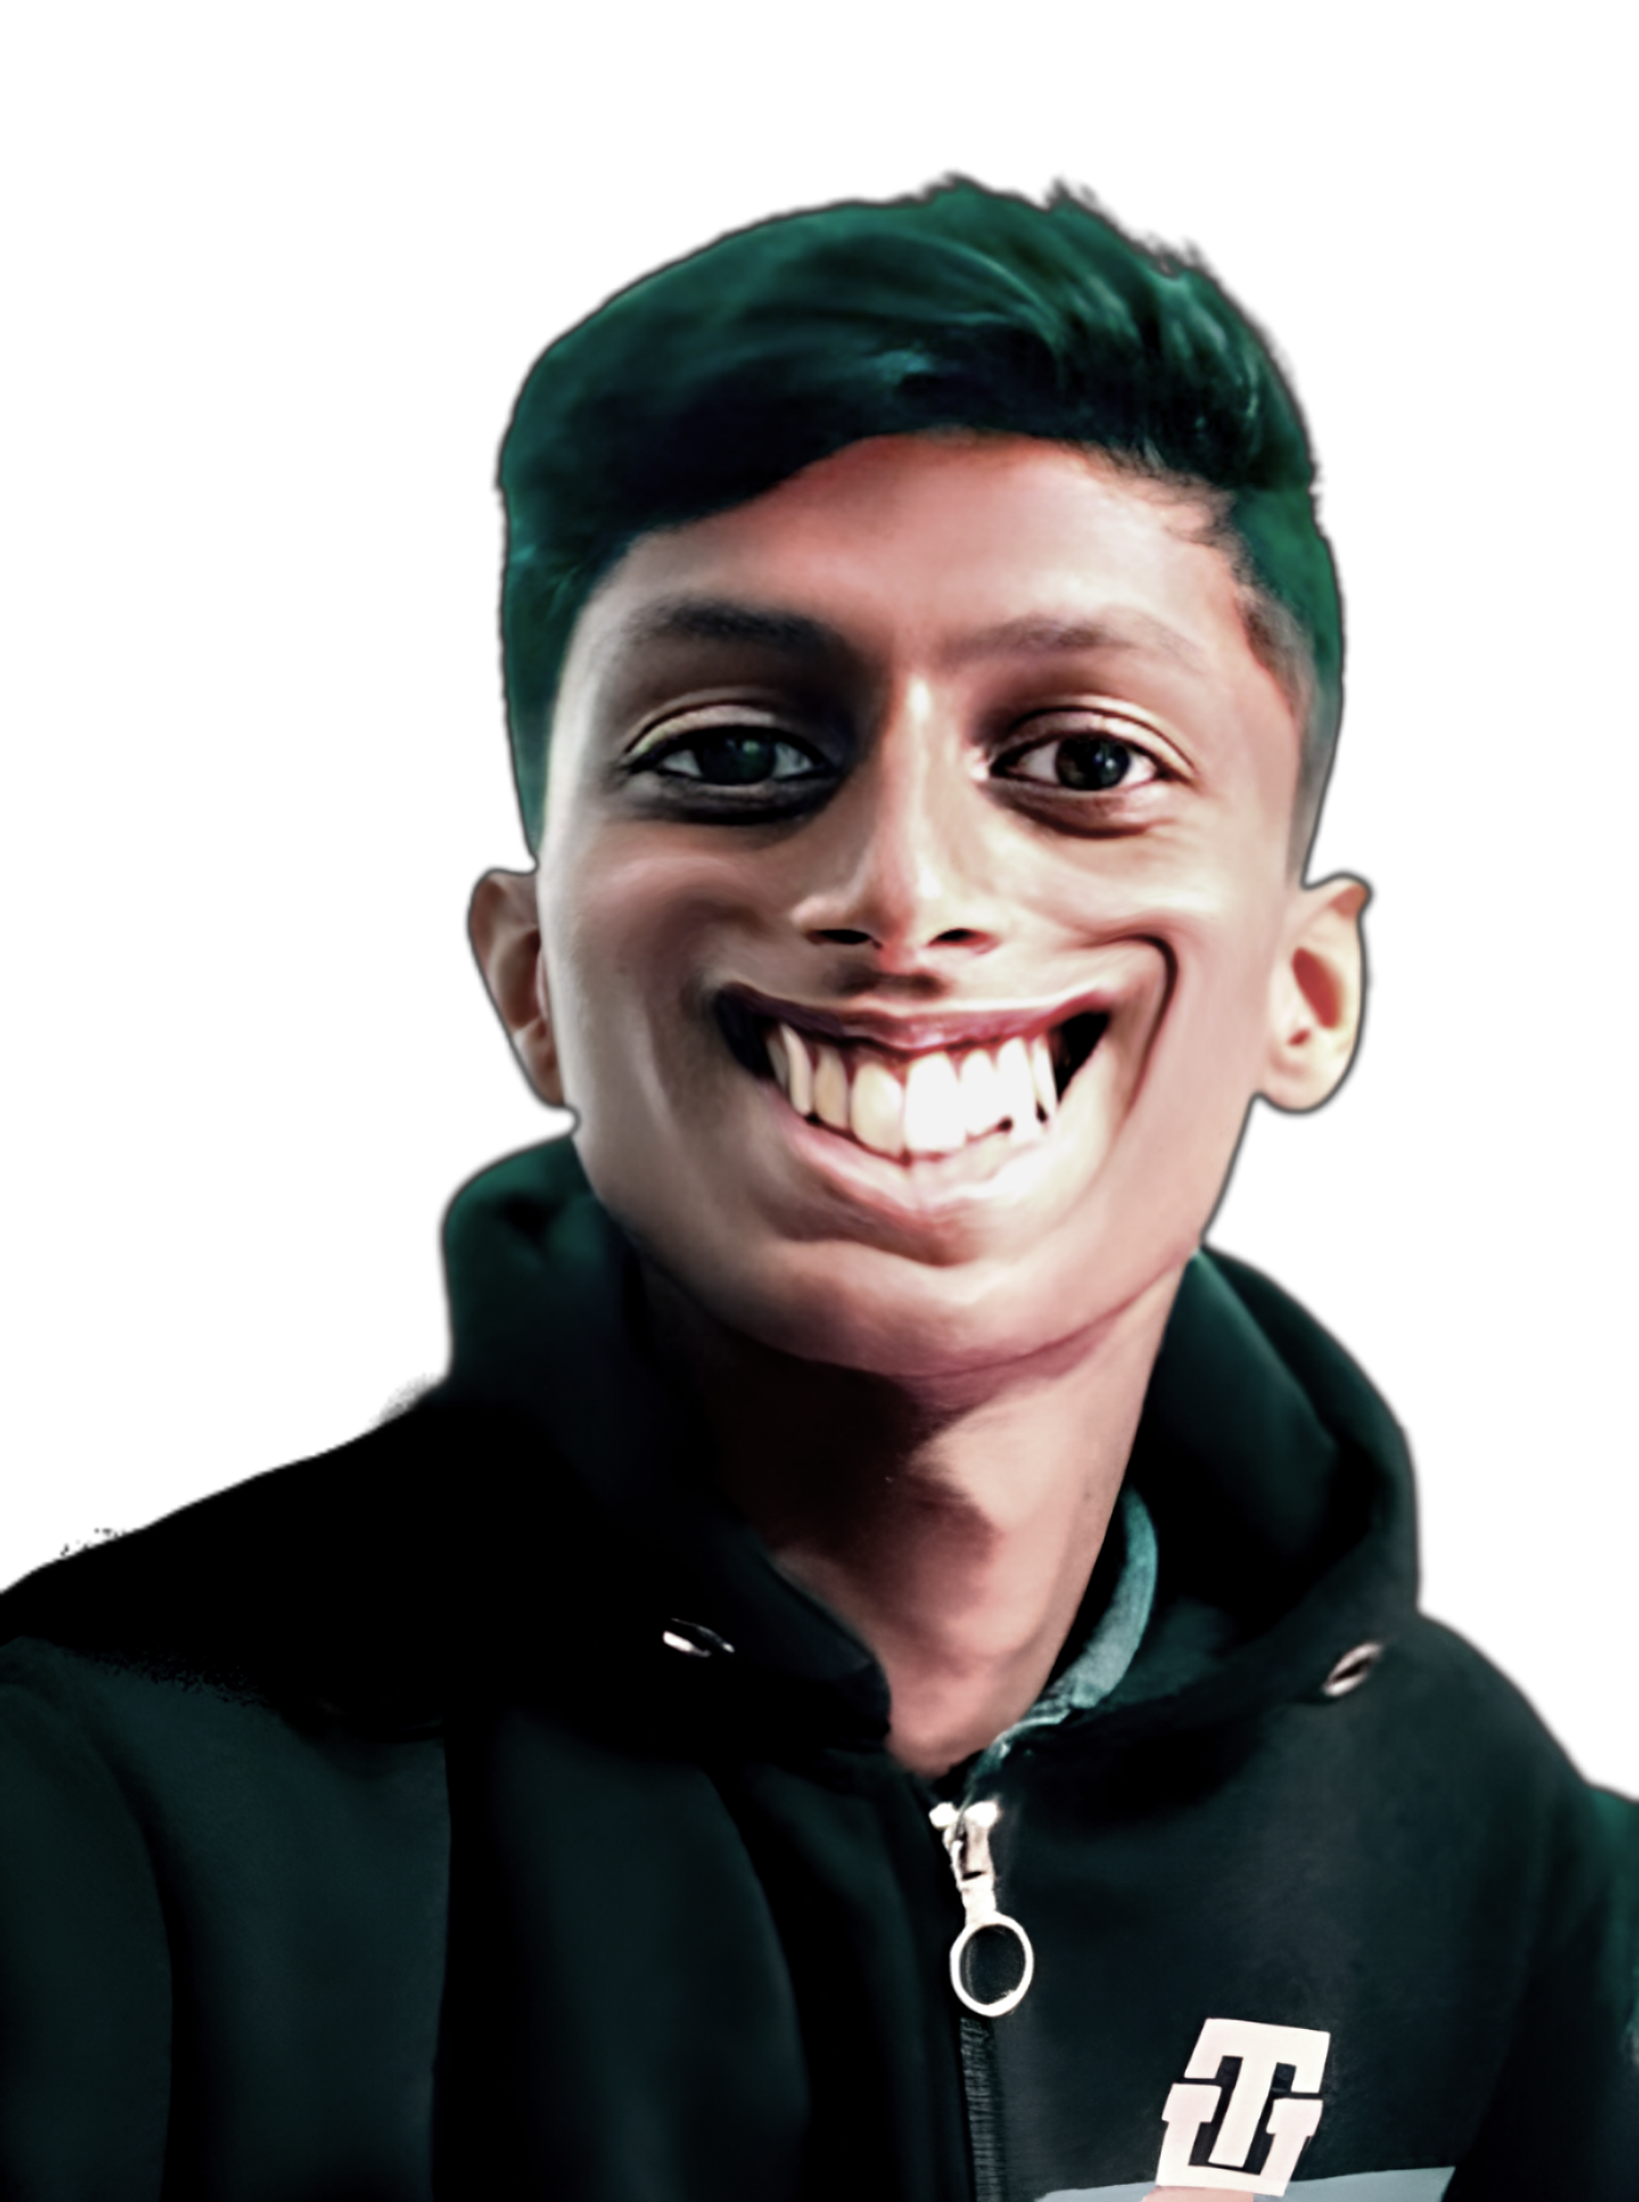
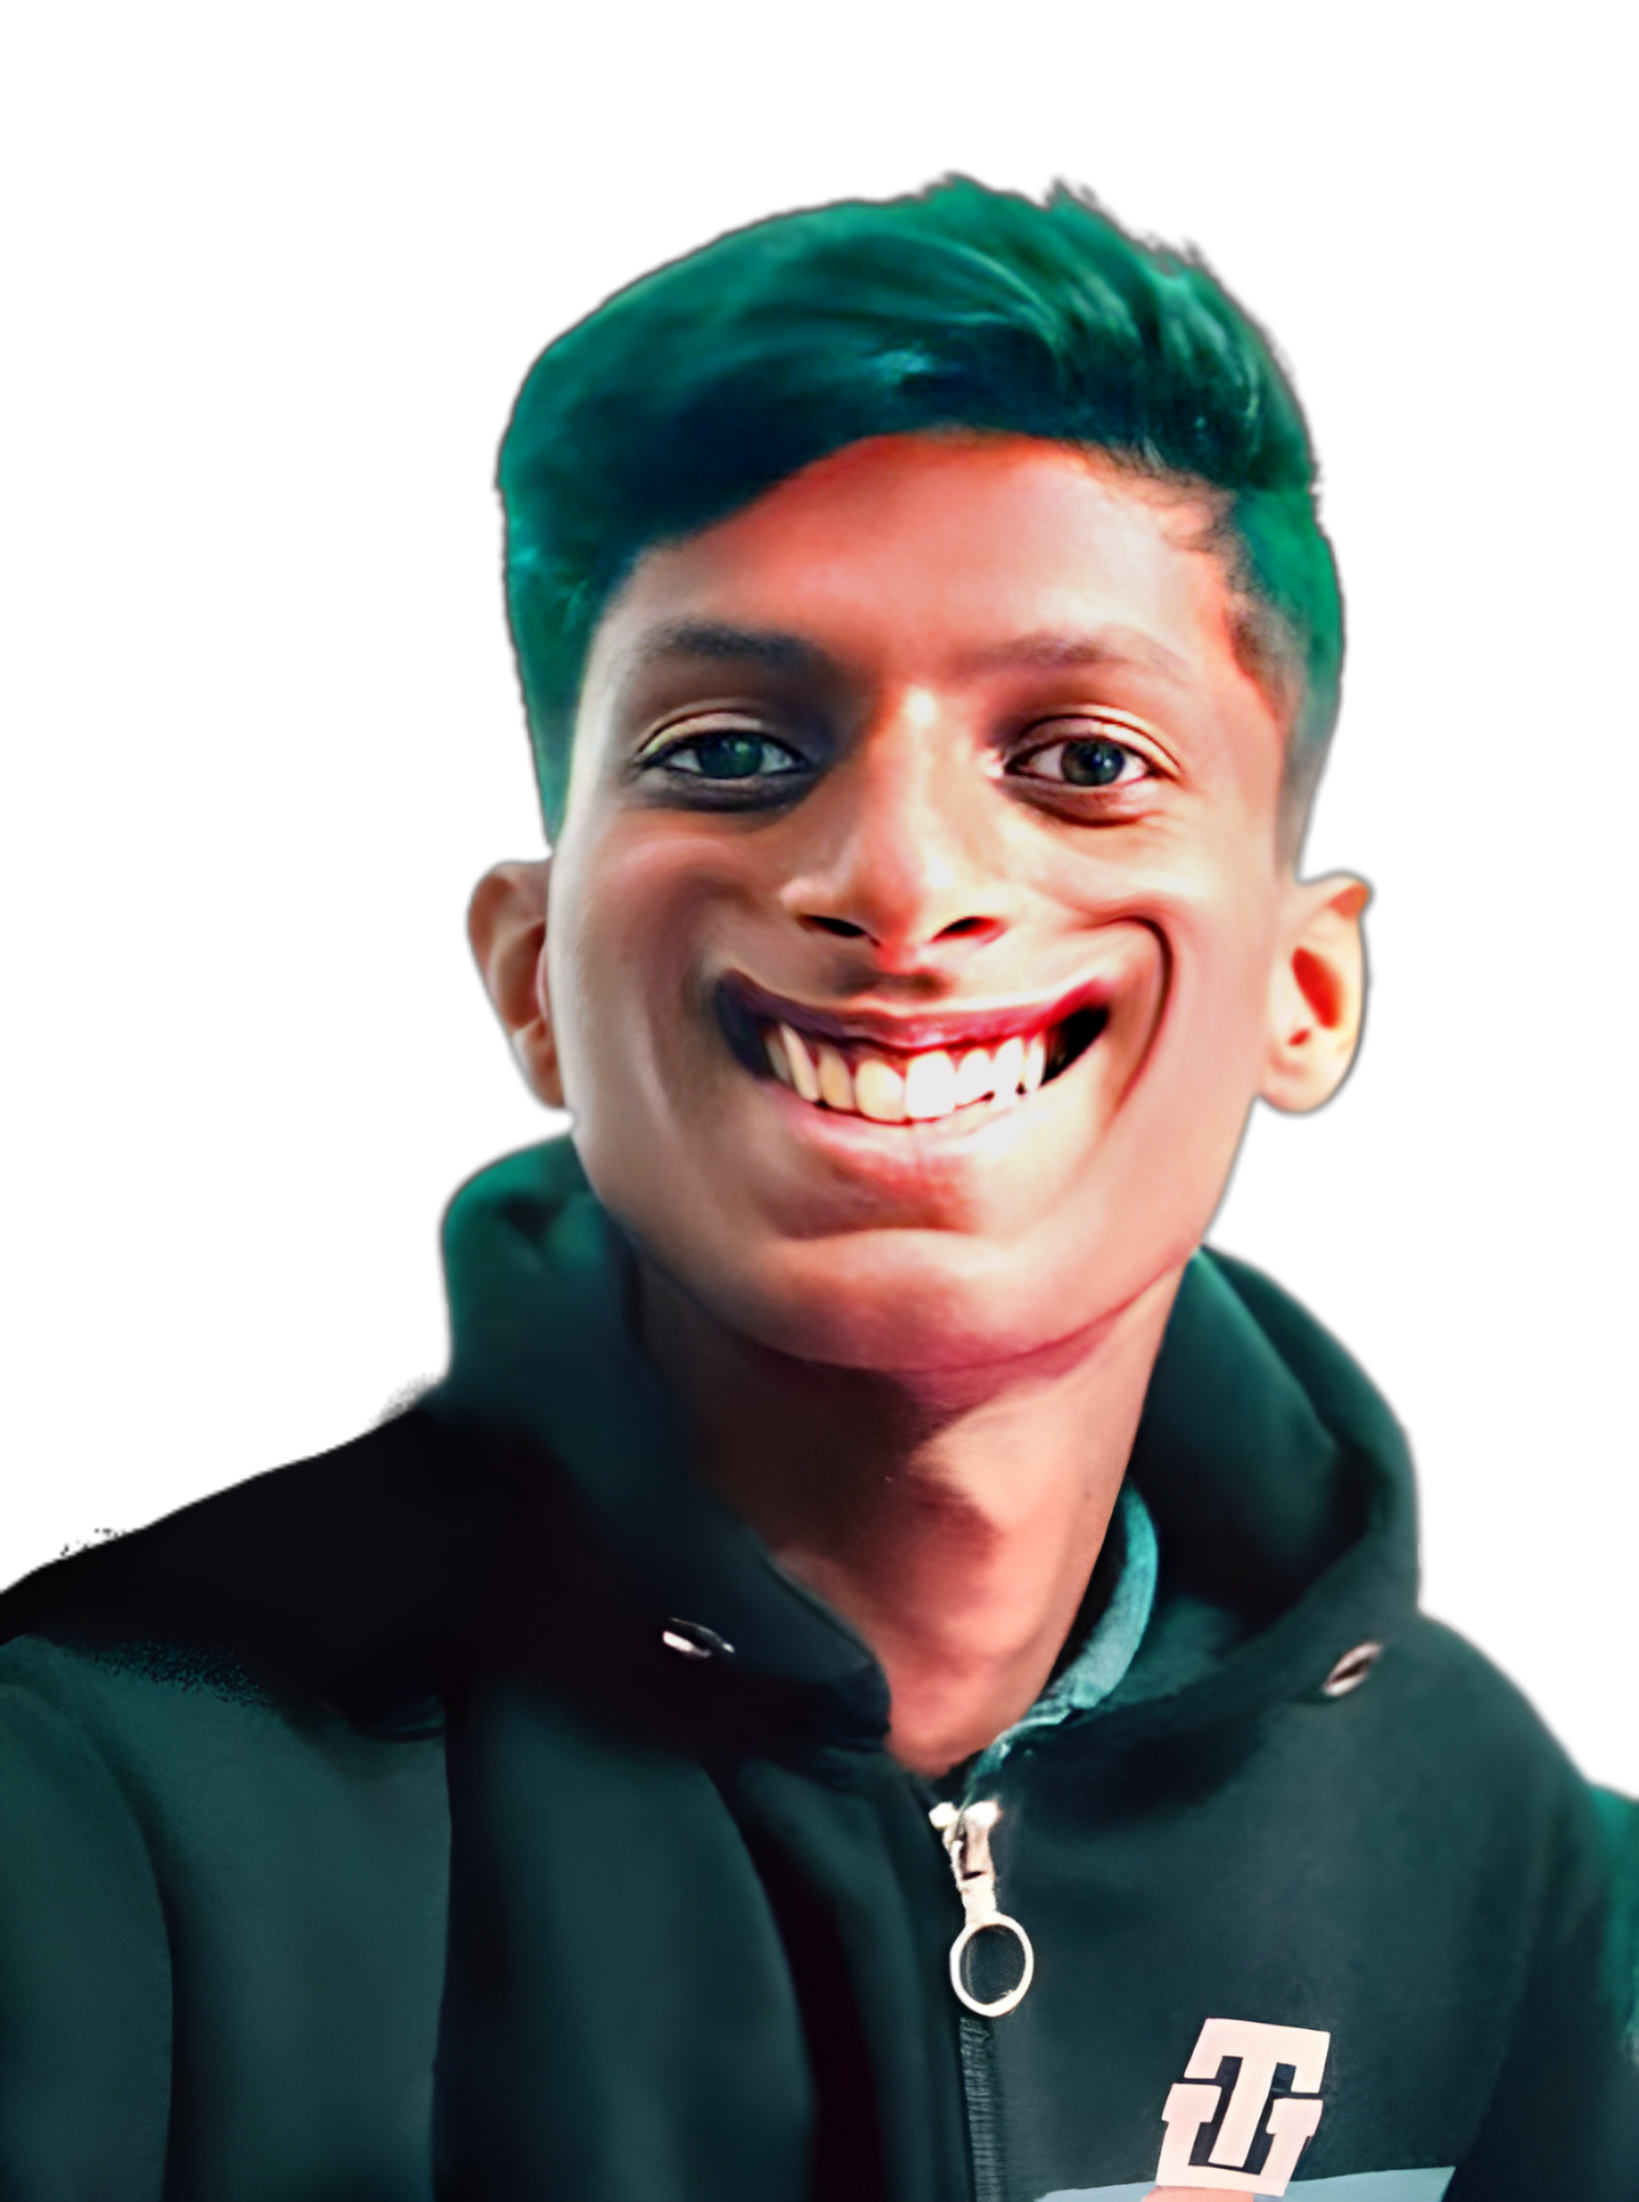
ReadMe file added, More images added, style Enhanced, VERSION UPGRADE 1.0.0

diff --git a/src/extension.ts b/src/extension.ts
@@ -208,7 +208,17 @@ class CustomSidebarViewProvider implements vscode.WebviewViewProvider {
         errors += warnings / 2;
       }
       let i = "0";
-      if (errors) i = errors < 5 ? "1" : errors < 10 ? "2" : "3";
+      if (errors)
+        i =
+          errors < 2
+            ? "1"
+            : errors < 5
+            ? "2"
+            : errors < 8
+            ? "3"
+            : errors < 11
+            ? "4"
+            : "5";
       webviewView.webview.html = this.getHtmlContent(webviewView.webview, i);
     }, 1000);
   }
@@ -260,9 +270,14 @@ function getHtml(doomFace: vscode.Uri, stylesheetUri: vscode.Uri) {
       <body>
         <section>
           <img src="${doomFace}">
-          <h2 class=${errorNum ? "alarm" : errorWar ? "yellow" : ""}>
+          <h2>
+          <div class=${errorNum && "alarm"}>
             ${errorNum} ${errorNum === 1 ? "error" : "errors"}
+          </div>
+
+          <div class=${errorWar && "yellow"}>
             ${errorWar} ${errorWar === 1 ? "warning" : "warnings"}
+          </div>
           </h2>
         </section>
       </body>

diff --git a/assets/main.css b/assets/main.css
@@ -4,12 +4,11 @@ html {
 }
 
 section {
-  max-height: 100vh;
+  height: 100vh;
+  max-width: 10rem;
   font-family: "Muli", sans-serif;
   font-size: 1rem;
   background-color: transparent;
-  display: grid;
-  grid-template-rows: min(calc(100% - 32px), 256px) 32px;
   place-items: center;
 }
 
@@ -18,13 +17,13 @@ section img {
 }
 
 h2 {
-  color: lightgrey;
+  color: rgb(255, 255, 255);
   font-weight: 900;
 }
 
-h2.alarm {
-  color: rgb(176, 7, 41);
+h2 > .alarm {
+  color: rgb(255, 0, 0);
 }
-h2.yellow {
+h2 > .yellow {
   color: rgb(176, 173, 7);
 }

diff --git a/README.md b/README.md
@@ -1,7 +1,33 @@
-# darogawatcher README
+# **DAROGA WATCHER**
 
-I don't know what to write
+_Pulished By: Avisekh Sabi_
 
-## Features
+_version: 1.0.0_
 
-It is a VS code Extension that takes error and display it in a funny way. It make coding fun.
+---
+
+## **Features**
+
+It's a VS code Extension that **Takes Error** and **Displays** it in a **Funny way**. It make coding fun.
+
+---
+
+## **Usage**
+
+You can see faces that change with the number of source code errors.
+
+![BANNER](https://raw.githubusercontent.com/avisekh3110/darogawatcher/main/assets/banner.jpg)
+
+---
+
+## **Demo Video**
+
+![mehnatSeBanaHuaGif](https://raw.githubusercontent.com/avisekh3110/darogawatcher/main/assets/recorddaroga.gif)
+
+---
+
+[To the Original Repository]("https://github.com/avisekh3110/darogawatcher")
+
+[Shoutout To Mind0bender]("https://github.com/mind0bender")
+
+[Instagram]("https://www.instagram.com/avisekh_sabi/")
